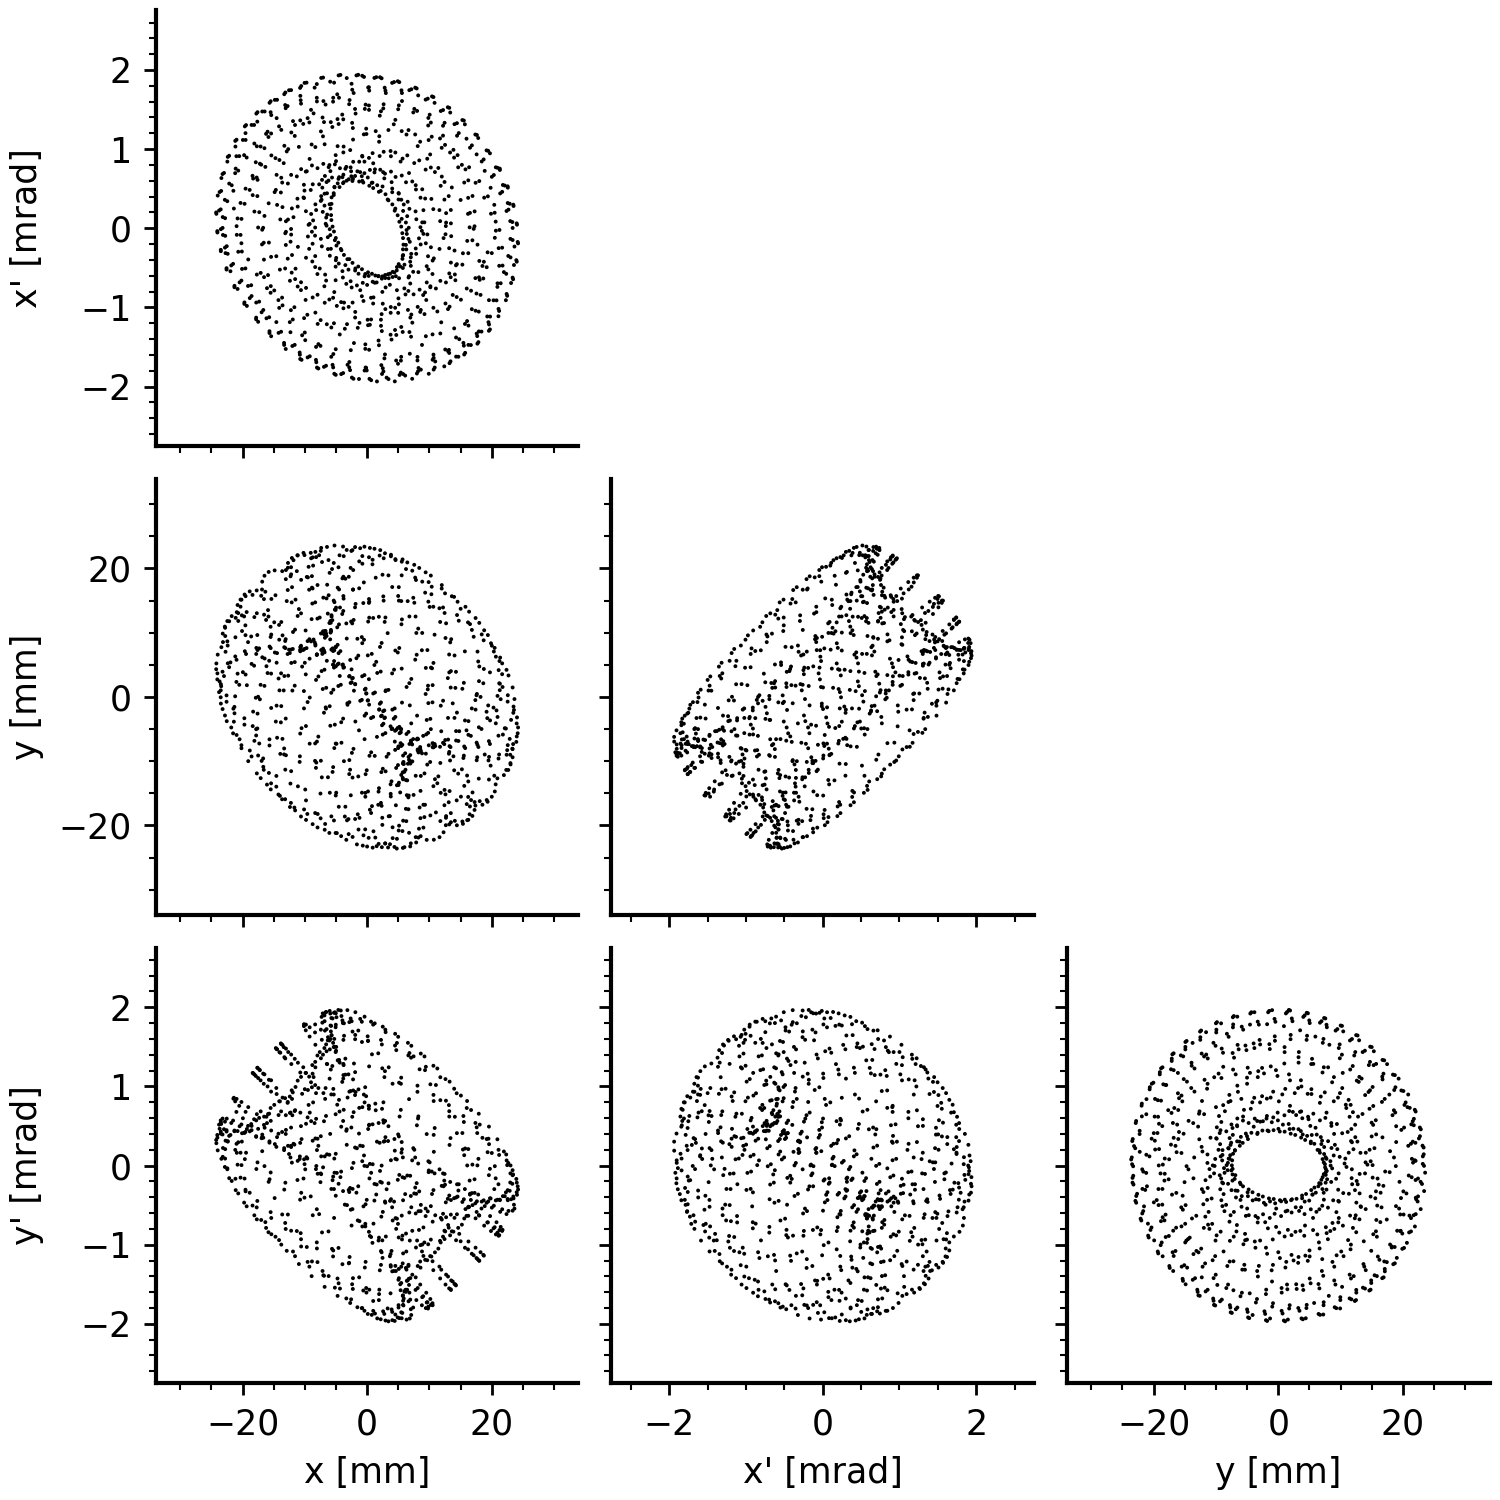
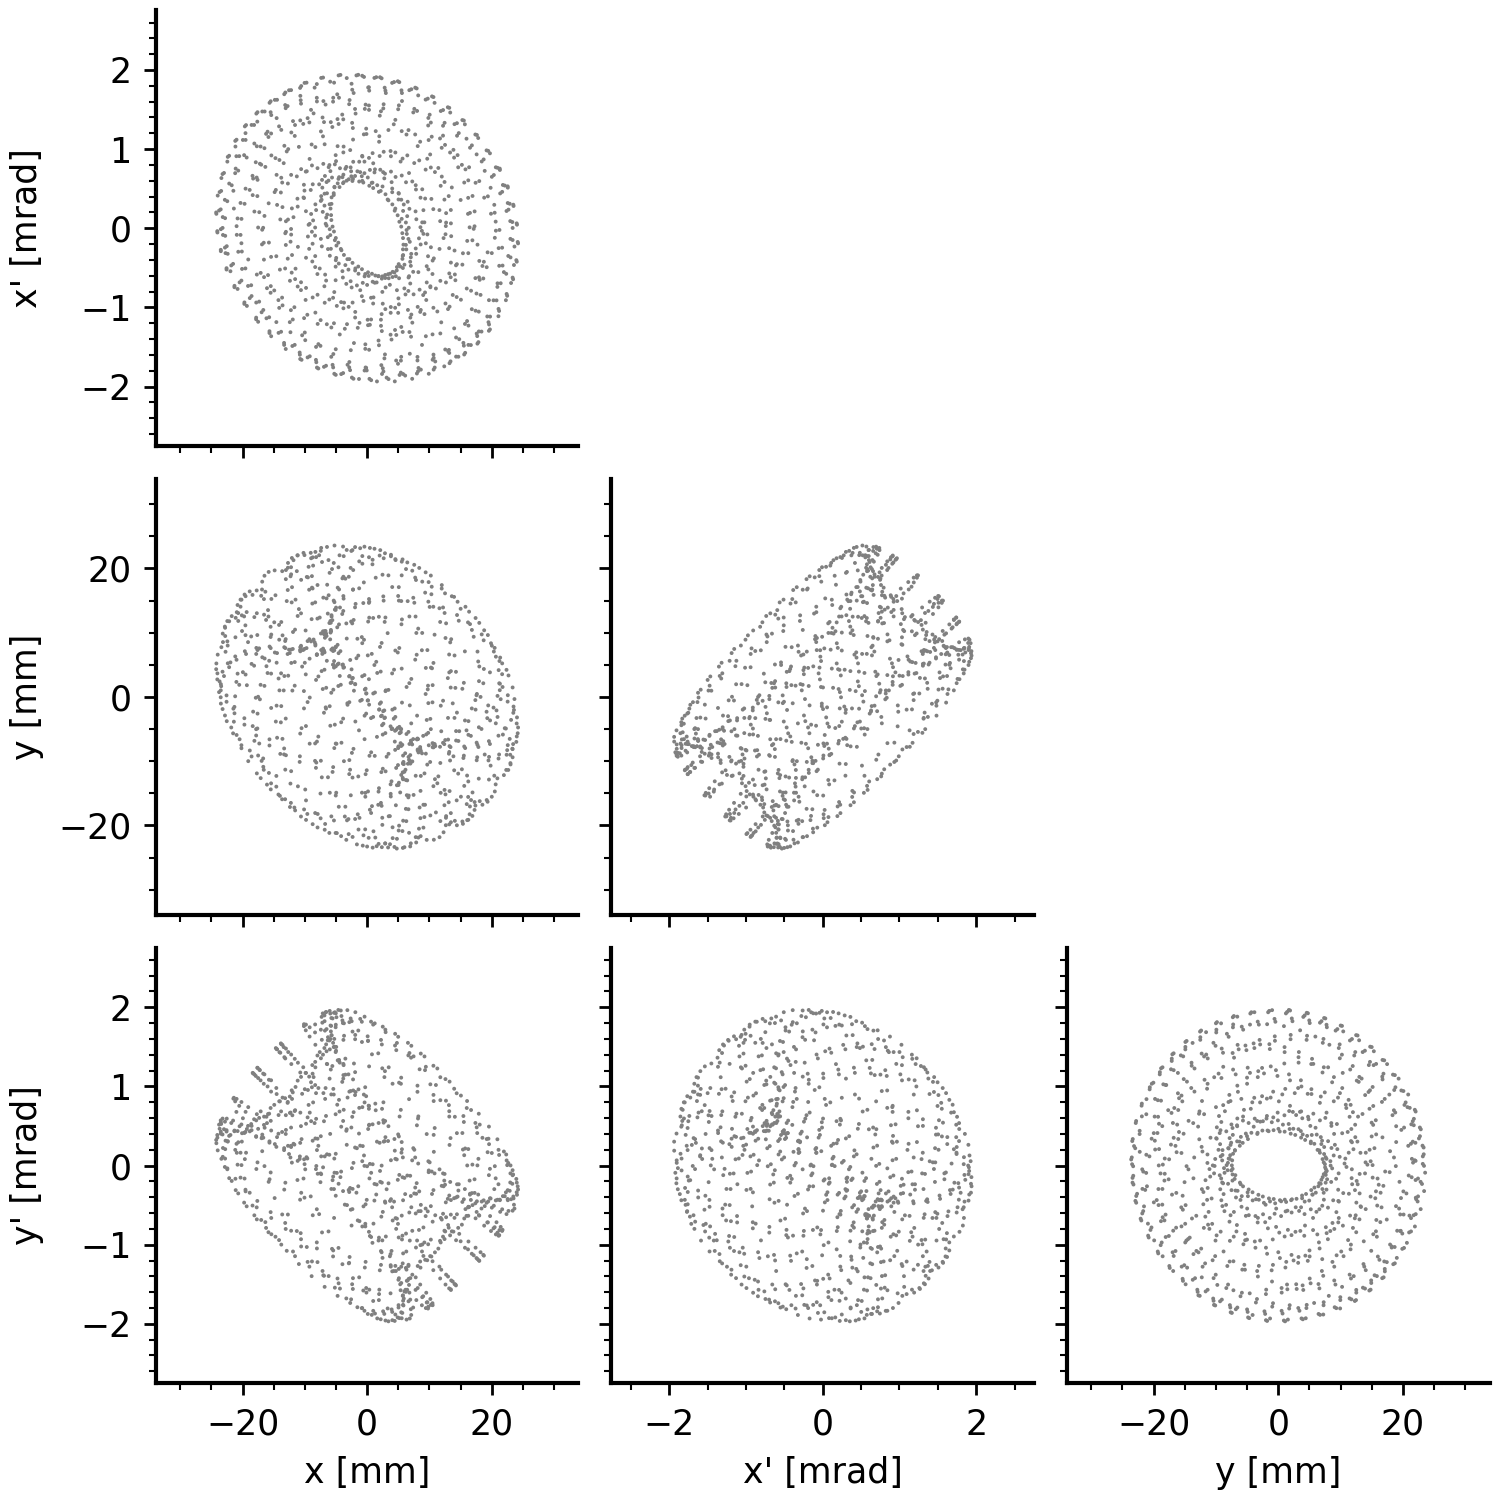
Save progress

diff --git a/posts/2026-01-30_eigenpainting-prl/fig_coupling.py b/posts/2026-01-30_eigenpainting-prl/fig_coupling.py
@@ -155,8 +155,8 @@ if __name__ == "__main__":
 
     # Plot corner
     grid = CornerGridNoDiag(ndim=4, figwidth=6.0, limits=limits, labels=labels)
-    grid.plot_scatter(coords, marker=".", s=5, ec="none", color="black")
-    plt.savefig(os.path.join(output_dir, "fig_corner.png"), dpi=250)
+    grid.plot_scatter(coords, marker=".", s=5, ec="none", color="grey")
+    plt.savefig(os.path.join(output_dir, "corner.png"), dpi=250)
     plt.close()
 
     # Plot corner with eigenvectors
@@ -164,17 +164,17 @@ if __name__ == "__main__":
     grid.plot_scatter(coords, marker=".", s=5, ec="none", color="grey")
     grid.plot_scatter(coords1, marker=".", s=5, ec="none", color="red")
     grid.plot_scatter(coords2 + coords1[0], marker=".", s=5, ec="none", color="blue")
-    plt.savefig(os.path.join(output_dir, "fig_corner_ellipse.png"), dpi=250)
+    plt.savefig(os.path.join(output_dir, "corner_ellipse.png"), dpi=250)
     plt.close()
 
     # turns_plot = 45
     # animation = animate_corner(coords[:turns_plot], limits=limits)
-    # animation.save(os.path.join(output_dir, "fig_corner.gif"), dpi=250)
+    # animation.save(os.path.join(output_dir, "corner.gif"), dpi=250)
 
     # animation = animate_corner(
     #     coords[:turns_plot], limits=limits, vectors=[coords1, coords2]
     # )
-    # animation.save(os.path.join(output_dir, "fig_corner_vec.gif"), dpi=250)
+    # animation.save(os.path.join(output_dir, "corner_vec.gif"), dpi=250)
 
     
     # Normalized coordinates
@@ -193,8 +193,34 @@ if __name__ == "__main__":
 
     # Plot corner
     grid = CornerGridNoDiag(ndim=4, figwidth=6.0, limits=limits, labels=labels)
-    grid.plot_scatter(coords, marker=".", s=5, ec="none", color="black")
-    plt.savefig(os.path.join(output_dir, "fig_norm_corner.png"), dpi=250)
+    grid.plot_scatter(coords, marker=".", s=5, ec="none", color="grey")
+    grid.axs[0, 0].annotate(
+        "", 
+        xy=(np.sqrt(2.0 * J1), 0.0), 
+        xytext=(0.0, 0.0), 
+        arrowprops=dict(ec="none", color="red", width=1.0, headwidth=5.0, headlength=5.0)
+    )
+    grid.axs[2, 2].annotate(
+        "", 
+        xy=(np.sqrt(2.0 * J2), 0.0), 
+        xytext=(0.0, 0.0), 
+        arrowprops=dict(ec="none", color="blue", width=1.0, headwidth=5.0, headlength=5.0)
+    )
+    grid.axs[0, 0].annotate(
+        r"$\sqrt{2 J_1}$", 
+        xy=(np.sqrt(2.0 * J1) * 0.5, 0.75),
+        horizontalalignment="center",
+        fontsize="small",
+        color="red",
+    )
+    grid.axs[2, 2].annotate(
+        r"$\sqrt{2 J_2}$", 
+        xy=(np.sqrt(2.0 * J2) * 0.5, 0.75),
+        horizontalalignment="center",
+        fontsize="small",
+        color="blue",
+    )
+    plt.savefig(os.path.join(output_dir, "norm_corner.png"), dpi=250)
     plt.close()
 
     # Plot corner with eigenvectors
@@ -202,14 +228,14 @@ if __name__ == "__main__":
     grid.plot_scatter(coords, marker=".", s=5, ec="none", color="grey")
     grid.plot_scatter(coords1, marker=".", s=5, ec="none", color="red")
     grid.plot_scatter(coords2 + coords1[0], marker=".", s=5, ec="none", color="blue")
-    plt.savefig(os.path.join(output_dir, "fig_norm_corner_ellipse.png"), dpi=250)
+    plt.savefig(os.path.join(output_dir, "norm_corner_ellipse.png"), dpi=250)
     plt.close()
 
     # turns_plot = 45
     # animation = animate_corner(coords[:turns_plot], limits=limits)
-    # animation.save(os.path.join(output_dir, "fig_norm_corner.gif"), dpi=250)
+    # animation.save(os.path.join(output_dir, "norm_corner.gif"), dpi=250)
 
     # animation = animate_corner(
     #     coords[:turns_plot], limits=limits, vectors=[coords1, coords2]
     # )
-    # animation.save(os.path.join(output_dir, "fig_norm_corner_vec.gif"), dpi=250)
+    # animation.save(os.path.join(output_dir, "norm_corner_vec.gif"), dpi=250)
